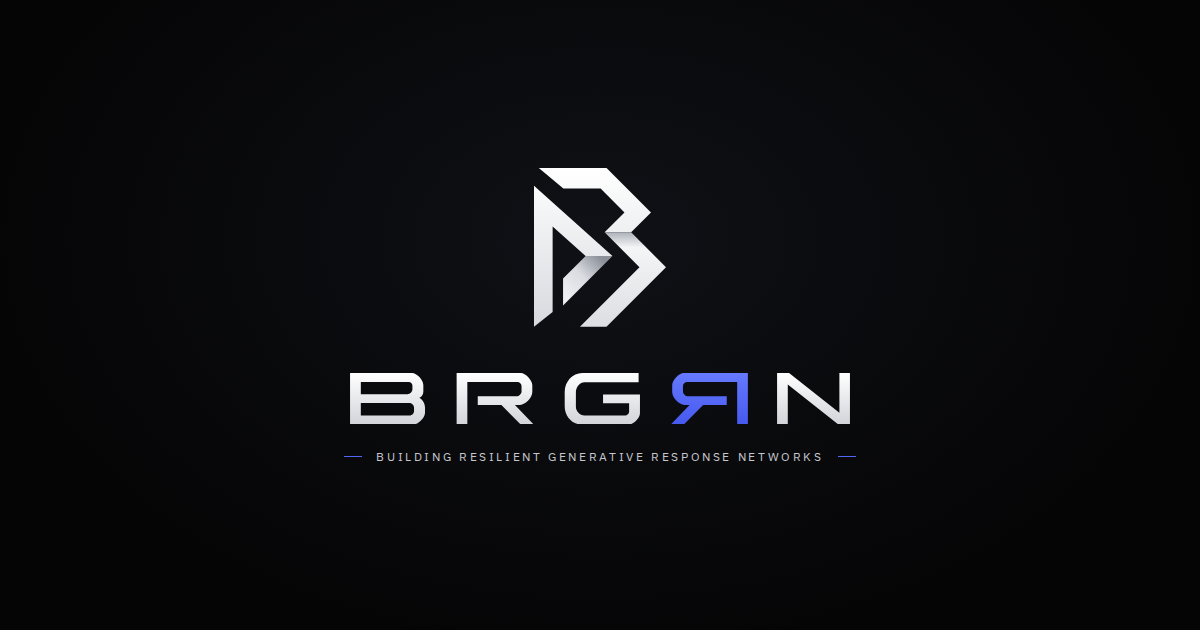
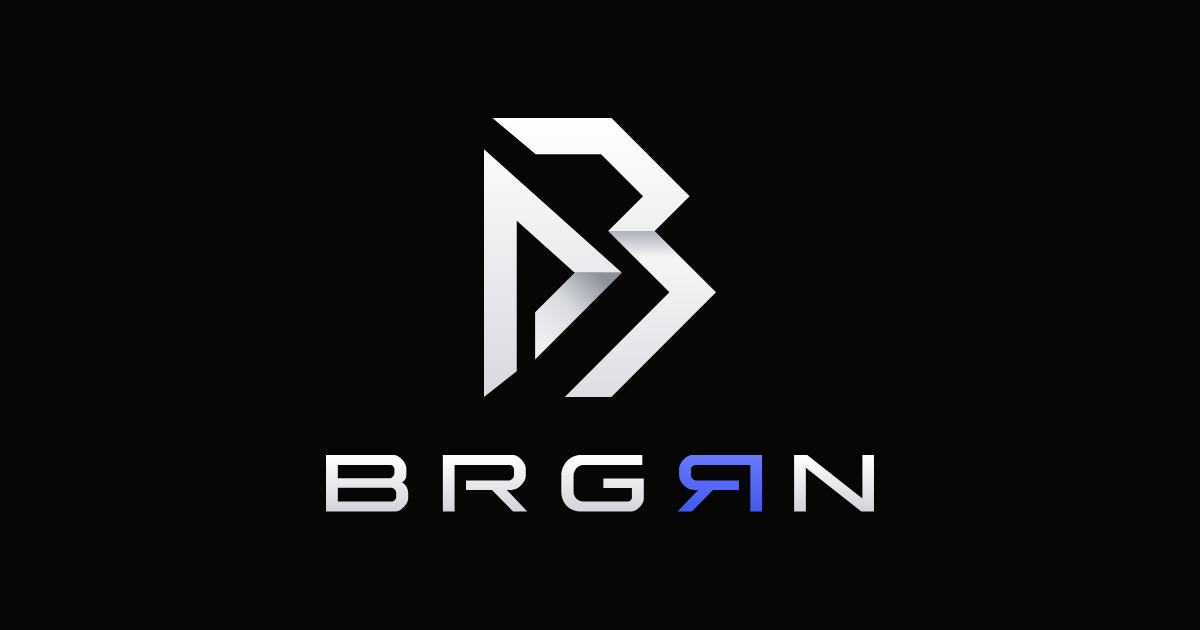
Bağlantı önizleme görseli küçük resimde okunacak şekilde yenilendi
Amblem ve yazı büyütüldü, slogan ve ışık geçişi kaldırıldı; görsel adresine sürüm etiketi eklendi.
Form gönderimi hizmetin belgelediği JSON biçimine çevrildi (anahtar henüz eklenmedi).

Changed region(s): [[0.2467, 0.181, 0.74, 0.8143]]

diff --git a/de/index.html b/de/index.html
@@ -20,18 +20,18 @@
 <meta property="og:title" content="BRGRN — Building Resilient Generative Response Networks">
 <meta property="og:description" content="BRGRN baut generative KI-Systeme, die auch dann antworten, wenn ein Teil ausfällt.">
 <meta property="og:site_name" content="BRGRN">
-<meta property="og:image" content="https://brgrn.com.tr/assets/img/og.png">
+<meta property="og:image" content="https://brgrn.com.tr/assets/img/og.png?v=2">
 <meta property="og:image:type" content="image/png">
 <meta property="og:image:width" content="1200">
 <meta property="og:image:height" content="630">
 <meta property="og:image:alt" content="BRGRN — Building Resilient Generative Response Networks">
 <meta name="twitter:card" content="summary_large_image">
-<meta name="twitter:image" content="https://brgrn.com.tr/assets/img/og.png">
+<meta name="twitter:image" content="https://brgrn.com.tr/assets/img/og.png?v=2">
 <link rel="icon" href="../assets/img/favicon.svg" type="image/svg+xml">
 <link rel="apple-touch-icon" href="../assets/img/apple-touch-icon.png">
 <link rel="preload" href="../assets/fonts/ibm-plex-sans-latin-400.woff2" as="font" type="font/woff2" crossorigin>
 <link rel="preload" href="../assets/fonts/michroma-latin-400.woff2" as="font" type="font/woff2" crossorigin>
-<link rel="stylesheet" href="../assets/css/site.css?v=7">
+<link rel="stylesheet" href="../assets/css/site.css?v=8">
 <script>document.documentElement.className = 'js';</script>
 </head>
 <body>
@@ -257,8 +257,8 @@
 </footer>
 
 <script type="application/json" id="i18n">{"net": {"down": "Kein Weg mehr frei. Warten auf Reparatur.", "rerouted": "Verbindung getrennt. Die Antwort nimmt einen anderen Weg.", "unaffected": "Verbindung getrennt. Der genutzte Weg ist nicht betroffen.", "healed_hand": "Verbindung repariert.", "healed_self": "Die Verbindung hat sich selbst repariert.", "healed_all": "Netz repariert."}, "flow": {"in": ["Audio", "Dokument", "Bild", "Text", "Daten"], "out": ["Transkript", "Zusammenfassung", "Antwort", "Entscheidung", "Bild"]}, "form": {"sending": "Wird gesendet…", "sent": "Ihre Nachricht ist angekommen. Wir antworten an die angegebene E-Mail-Adresse.", "failed": "Die Nachricht konnte nicht gesendet werden. Versuchen Sie es erneut oder schreiben Sie direkt an iletisim@brgrn.com.tr.", "mailto": "Ihr E-Mail-Programm wurde geöffnet. Schließen Sie den Versand dort ab."}}</script>
-<script src="../assets/js/network.js?v=7" defer></script>
-<script src="../assets/js/flow.js?v=7" defer></script>
-<script src="../assets/js/contact.js?v=7" defer></script>
+<script src="../assets/js/network.js?v=8" defer></script>
+<script src="../assets/js/flow.js?v=8" defer></script>
+<script src="../assets/js/contact.js?v=8" defer></script>
 </body>
 </html>

diff --git a/index.html b/index.html
@@ -20,18 +20,18 @@
 <meta property="og:title" content="BRGRN — Building Resilient Generative Response Networks">
 <meta property="og:description" content="BRGRN: bir parçası düşse de yanıt vermeyi sürdüren üretken yapay zekâ sistemleri kuruyoruz.">
 <meta property="og:site_name" content="BRGRN">
-<meta property="og:image" content="https://brgrn.com.tr/assets/img/og.png">
+<meta property="og:image" content="https://brgrn.com.tr/assets/img/og.png?v=2">
 <meta property="og:image:type" content="image/png">
 <meta property="og:image:width" content="1200">
 <meta property="og:image:height" content="630">
 <meta property="og:image:alt" content="BRGRN — Building Resilient Generative Response Networks">
 <meta name="twitter:card" content="summary_large_image">
-<meta name="twitter:image" content="https://brgrn.com.tr/assets/img/og.png">
+<meta name="twitter:image" content="https://brgrn.com.tr/assets/img/og.png?v=2">
 <link rel="icon" href="assets/img/favicon.svg" type="image/svg+xml">
 <link rel="apple-touch-icon" href="assets/img/apple-touch-icon.png">
 <link rel="preload" href="assets/fonts/ibm-plex-sans-latin-400.woff2" as="font" type="font/woff2" crossorigin>
 <link rel="preload" href="assets/fonts/michroma-latin-400.woff2" as="font" type="font/woff2" crossorigin>
-<link rel="stylesheet" href="assets/css/site.css?v=7">
+<link rel="stylesheet" href="assets/css/site.css?v=8">
 <script>document.documentElement.className = 'js';</script>
 </head>
 <body>
@@ -257,8 +257,8 @@
 </footer>
 
 <script type="application/json" id="i18n">{"net": {"down": "Yol kalmadı. Onarım bekleniyor.", "rerouted": "Bağlantı koptu. Yanıt başka yoldan dönüyor.", "unaffected": "Bağlantı koptu. Kullanılan yol etkilenmedi.", "healed_hand": "Bağlantı onarıldı.", "healed_self": "Bağlantı kendini onardı.", "healed_all": "Ağ onarıldı."}, "flow": {"in": ["Ses", "Belge", "Görüntü", "Metin", "Veri"], "out": ["Döküm", "Özet", "Yanıt", "Karar", "Görsel"]}, "form": {"sending": "Gönderiliyor…", "sent": "Mesajınız ulaştı. Yanıtı yazdığınız e-posta adresine göndereceğiz.", "failed": "Mesaj gönderilemedi. Yeniden deneyin ya da doğrudan iletisim@brgrn.com.tr adresine yazın.", "mailto": "Posta programınız açıldı. Gönderimi oradan tamamlayın."}}</script>
-<script src="assets/js/network.js?v=7" defer></script>
-<script src="assets/js/flow.js?v=7" defer></script>
-<script src="assets/js/contact.js?v=7" defer></script>
+<script src="assets/js/network.js?v=8" defer></script>
+<script src="assets/js/flow.js?v=8" defer></script>
+<script src="assets/js/contact.js?v=8" defer></script>
 </body>
 </html>

diff --git a/zh/index.html b/zh/index.html
@@ -20,18 +20,18 @@
 <meta property="og:title" content="BRGRN — Building Resilient Generative Response Networks">
 <meta property="og:description" content="BRGRN 构建生成式人工智能系统：即使某个部分失效，系统仍能持续响应。">
 <meta property="og:site_name" content="BRGRN">
-<meta property="og:image" content="https://brgrn.com.tr/assets/img/og.png">
+<meta property="og:image" content="https://brgrn.com.tr/assets/img/og.png?v=2">
 <meta property="og:image:type" content="image/png">
 <meta property="og:image:width" content="1200">
 <meta property="og:image:height" content="630">
 <meta property="og:image:alt" content="BRGRN — Building Resilient Generative Response Networks">
 <meta name="twitter:card" content="summary_large_image">
-<meta name="twitter:image" content="https://brgrn.com.tr/assets/img/og.png">
+<meta name="twitter:image" content="https://brgrn.com.tr/assets/img/og.png?v=2">
 <link rel="icon" href="../assets/img/favicon.svg" type="image/svg+xml">
 <link rel="apple-touch-icon" href="../assets/img/apple-touch-icon.png">
 <link rel="preload" href="../assets/fonts/ibm-plex-sans-latin-400.woff2" as="font" type="font/woff2" crossorigin>
 <link rel="preload" href="../assets/fonts/michroma-latin-400.woff2" as="font" type="font/woff2" crossorigin>
-<link rel="stylesheet" href="../assets/css/site.css?v=7">
+<link rel="stylesheet" href="../assets/css/site.css?v=8">
 <script>document.documentElement.className = 'js';</script>
 </head>
 <body>
@@ -257,8 +257,8 @@
 </footer>
 
 <script type="application/json" id="i18n">{"net": {"down": "已无可用路径，等待修复。", "rerouted": "连接已切断，响应正在改走其他路径。", "unaffected": "连接已切断，当前路径未受影响。", "healed_hand": "连接已修复。", "healed_self": "连接已自动修复。", "healed_all": "网络已修复。"}, "flow": {"in": ["语音", "文档", "图像", "文本", "数据"], "out": ["转写", "摘要", "回答", "决策", "图像"]}, "form": {"sending": "正在发送…", "sent": "留言已送达。我们会回复到您填写的邮箱。", "failed": "留言发送失败。请重试，或直接写信至 iletisim@brgrn.com.tr。", "mailto": "已打开您的邮件程序，请在其中完成发送。"}}</script>
-<script src="../assets/js/network.js?v=7" defer></script>
-<script src="../assets/js/flow.js?v=7" defer></script>
-<script src="../assets/js/contact.js?v=7" defer></script>
+<script src="../assets/js/network.js?v=8" defer></script>
+<script src="../assets/js/flow.js?v=8" defer></script>
+<script src="../assets/js/contact.js?v=8" defer></script>
 </body>
 </html>

diff --git a/en/index.html b/en/index.html
@@ -20,18 +20,18 @@
 <meta property="og:title" content="BRGRN — Building Resilient Generative Response Networks">
 <meta property="og:description" content="BRGRN builds generative AI systems that keep answering even when a part fails.">
 <meta property="og:site_name" content="BRGRN">
-<meta property="og:image" content="https://brgrn.com.tr/assets/img/og.png">
+<meta property="og:image" content="https://brgrn.com.tr/assets/img/og.png?v=2">
 <meta property="og:image:type" content="image/png">
 <meta property="og:image:width" content="1200">
 <meta property="og:image:height" content="630">
 <meta property="og:image:alt" content="BRGRN — Building Resilient Generative Response Networks">
 <meta name="twitter:card" content="summary_large_image">
-<meta name="twitter:image" content="https://brgrn.com.tr/assets/img/og.png">
+<meta name="twitter:image" content="https://brgrn.com.tr/assets/img/og.png?v=2">
 <link rel="icon" href="../assets/img/favicon.svg" type="image/svg+xml">
 <link rel="apple-touch-icon" href="../assets/img/apple-touch-icon.png">
 <link rel="preload" href="../assets/fonts/ibm-plex-sans-latin-400.woff2" as="font" type="font/woff2" crossorigin>
 <link rel="preload" href="../assets/fonts/michroma-latin-400.woff2" as="font" type="font/woff2" crossorigin>
-<link rel="stylesheet" href="../assets/css/site.css?v=7">
+<link rel="stylesheet" href="../assets/css/site.css?v=8">
 <script>document.documentElement.className = 'js';</script>
 </head>
 <body>
@@ -257,8 +257,8 @@
 </footer>
 
 <script type="application/json" id="i18n">{"net": {"down": "No path left. Waiting for repair.", "rerouted": "Link cut. The response is taking another path.", "unaffected": "Link cut. The path in use is unaffected.", "healed_hand": "Link repaired.", "healed_self": "Link repaired itself.", "healed_all": "Network repaired."}, "flow": {"in": ["Speech", "Document", "Image", "Text", "Data"], "out": ["Transcript", "Summary", "Answer", "Decision", "Image"]}, "form": {"sending": "Sending…", "sent": "Your message has arrived. We will reply to the email address you entered.", "failed": "The message could not be sent. Try again, or write directly to iletisim@brgrn.com.tr.", "mailto": "Your mail app has opened. Finish sending from there."}}</script>
-<script src="../assets/js/network.js?v=7" defer></script>
-<script src="../assets/js/flow.js?v=7" defer></script>
-<script src="../assets/js/contact.js?v=7" defer></script>
+<script src="../assets/js/network.js?v=8" defer></script>
+<script src="../assets/js/flow.js?v=8" defer></script>
+<script src="../assets/js/contact.js?v=8" defer></script>
 </body>
 </html>

diff --git a/tools/page.html b/tools/page.html
@@ -15,13 +15,13 @@
 <meta property="og:title" content="{{title}}">
 <meta property="og:description" content="{{description}}">
 <meta property="og:site_name" content="BRGRN">
-<meta property="og:image" content="{{site_url}}assets/img/og.png">
+<meta property="og:image" content="{{site_url}}assets/img/og.png?v=2">
 <meta property="og:image:type" content="image/png">
 <meta property="og:image:width" content="1200">
 <meta property="og:image:height" content="630">
 <meta property="og:image:alt" content="BRGRN — Building Resilient Generative Response Networks">
 <meta name="twitter:card" content="summary_large_image">
-<meta name="twitter:image" content="{{site_url}}assets/img/og.png">
+<meta name="twitter:image" content="{{site_url}}assets/img/og.png?v=2">
 <link rel="icon" href="{{root}}assets/img/favicon.svg" type="image/svg+xml">
 <link rel="apple-touch-icon" href="{{root}}assets/img/apple-touch-icon.png">
 <link rel="preload" href="{{root}}assets/fonts/ibm-plex-sans-latin-400.woff2" as="font" type="font/woff2" crossorigin>

diff --git a/assets/js/contact.js b/assets/js/contact.js
@@ -56,9 +56,15 @@
     send.textContent = T.sending;
     say('', '');
     try {
-      data.append('access_key', form.dataset.key);
-      data.append('from_name', 'brgrn.com.tr');
-      const res = await fetch(form.dataset.endpoint, { method: 'POST', headers: { Accept: 'application/json' }, body: data });
+      // Hizmetin belgesindeki biçim: JSON gövde, JSON yanıt
+      const payload = Object.fromEntries(data);
+      payload.access_key = form.dataset.key;
+      payload.from_name = 'brgrn.com.tr';
+      const res = await fetch(form.dataset.endpoint, {
+        method: 'POST',
+        headers: { 'Content-Type': 'application/json', Accept: 'application/json' },
+        body: JSON.stringify(payload),
+      });
       const out = await res.json().catch(() => ({}));
       if (!res.ok || out.success === false) throw new Error('gönderilemedi');
       form.reset();

diff --git a/tools/build.py b/tools/build.py
@@ -14,7 +14,7 @@ import pathlib
 import re
 import sys
 
-VER = "7"
+VER = "8"
 LANGS = ["tr", "en", "de", "zh"]          # ilk dil kök adreste yayınlanır
 HREFLANG = {"tr": "tr", "en": "en", "de": "de", "zh": "zh-Hans"}
 

diff --git a/README.md b/README.md
@@ -43,10 +43,10 @@ Form, mesajı bir form hizmetine (Web3Forms) gönderecek şekilde yazıldı. Hiz
 ## Önizleme
 
 ```bash
-python3 -m http.server 7940 --bind 127.0.0.1
+python3 -m http.server 7961 --bind 127.0.0.1
 ```
 
-Tarayıcıda `http://localhost:7940` adresini aç. Diller: `/`, `/en/`, `/de/`, `/zh/`.
+Tarayıcıda `http://localhost:7961` adresini aç. Diller: `/`, `/en/`, `/de/`, `/zh/`.
 
 ## Proje eklemek
 
